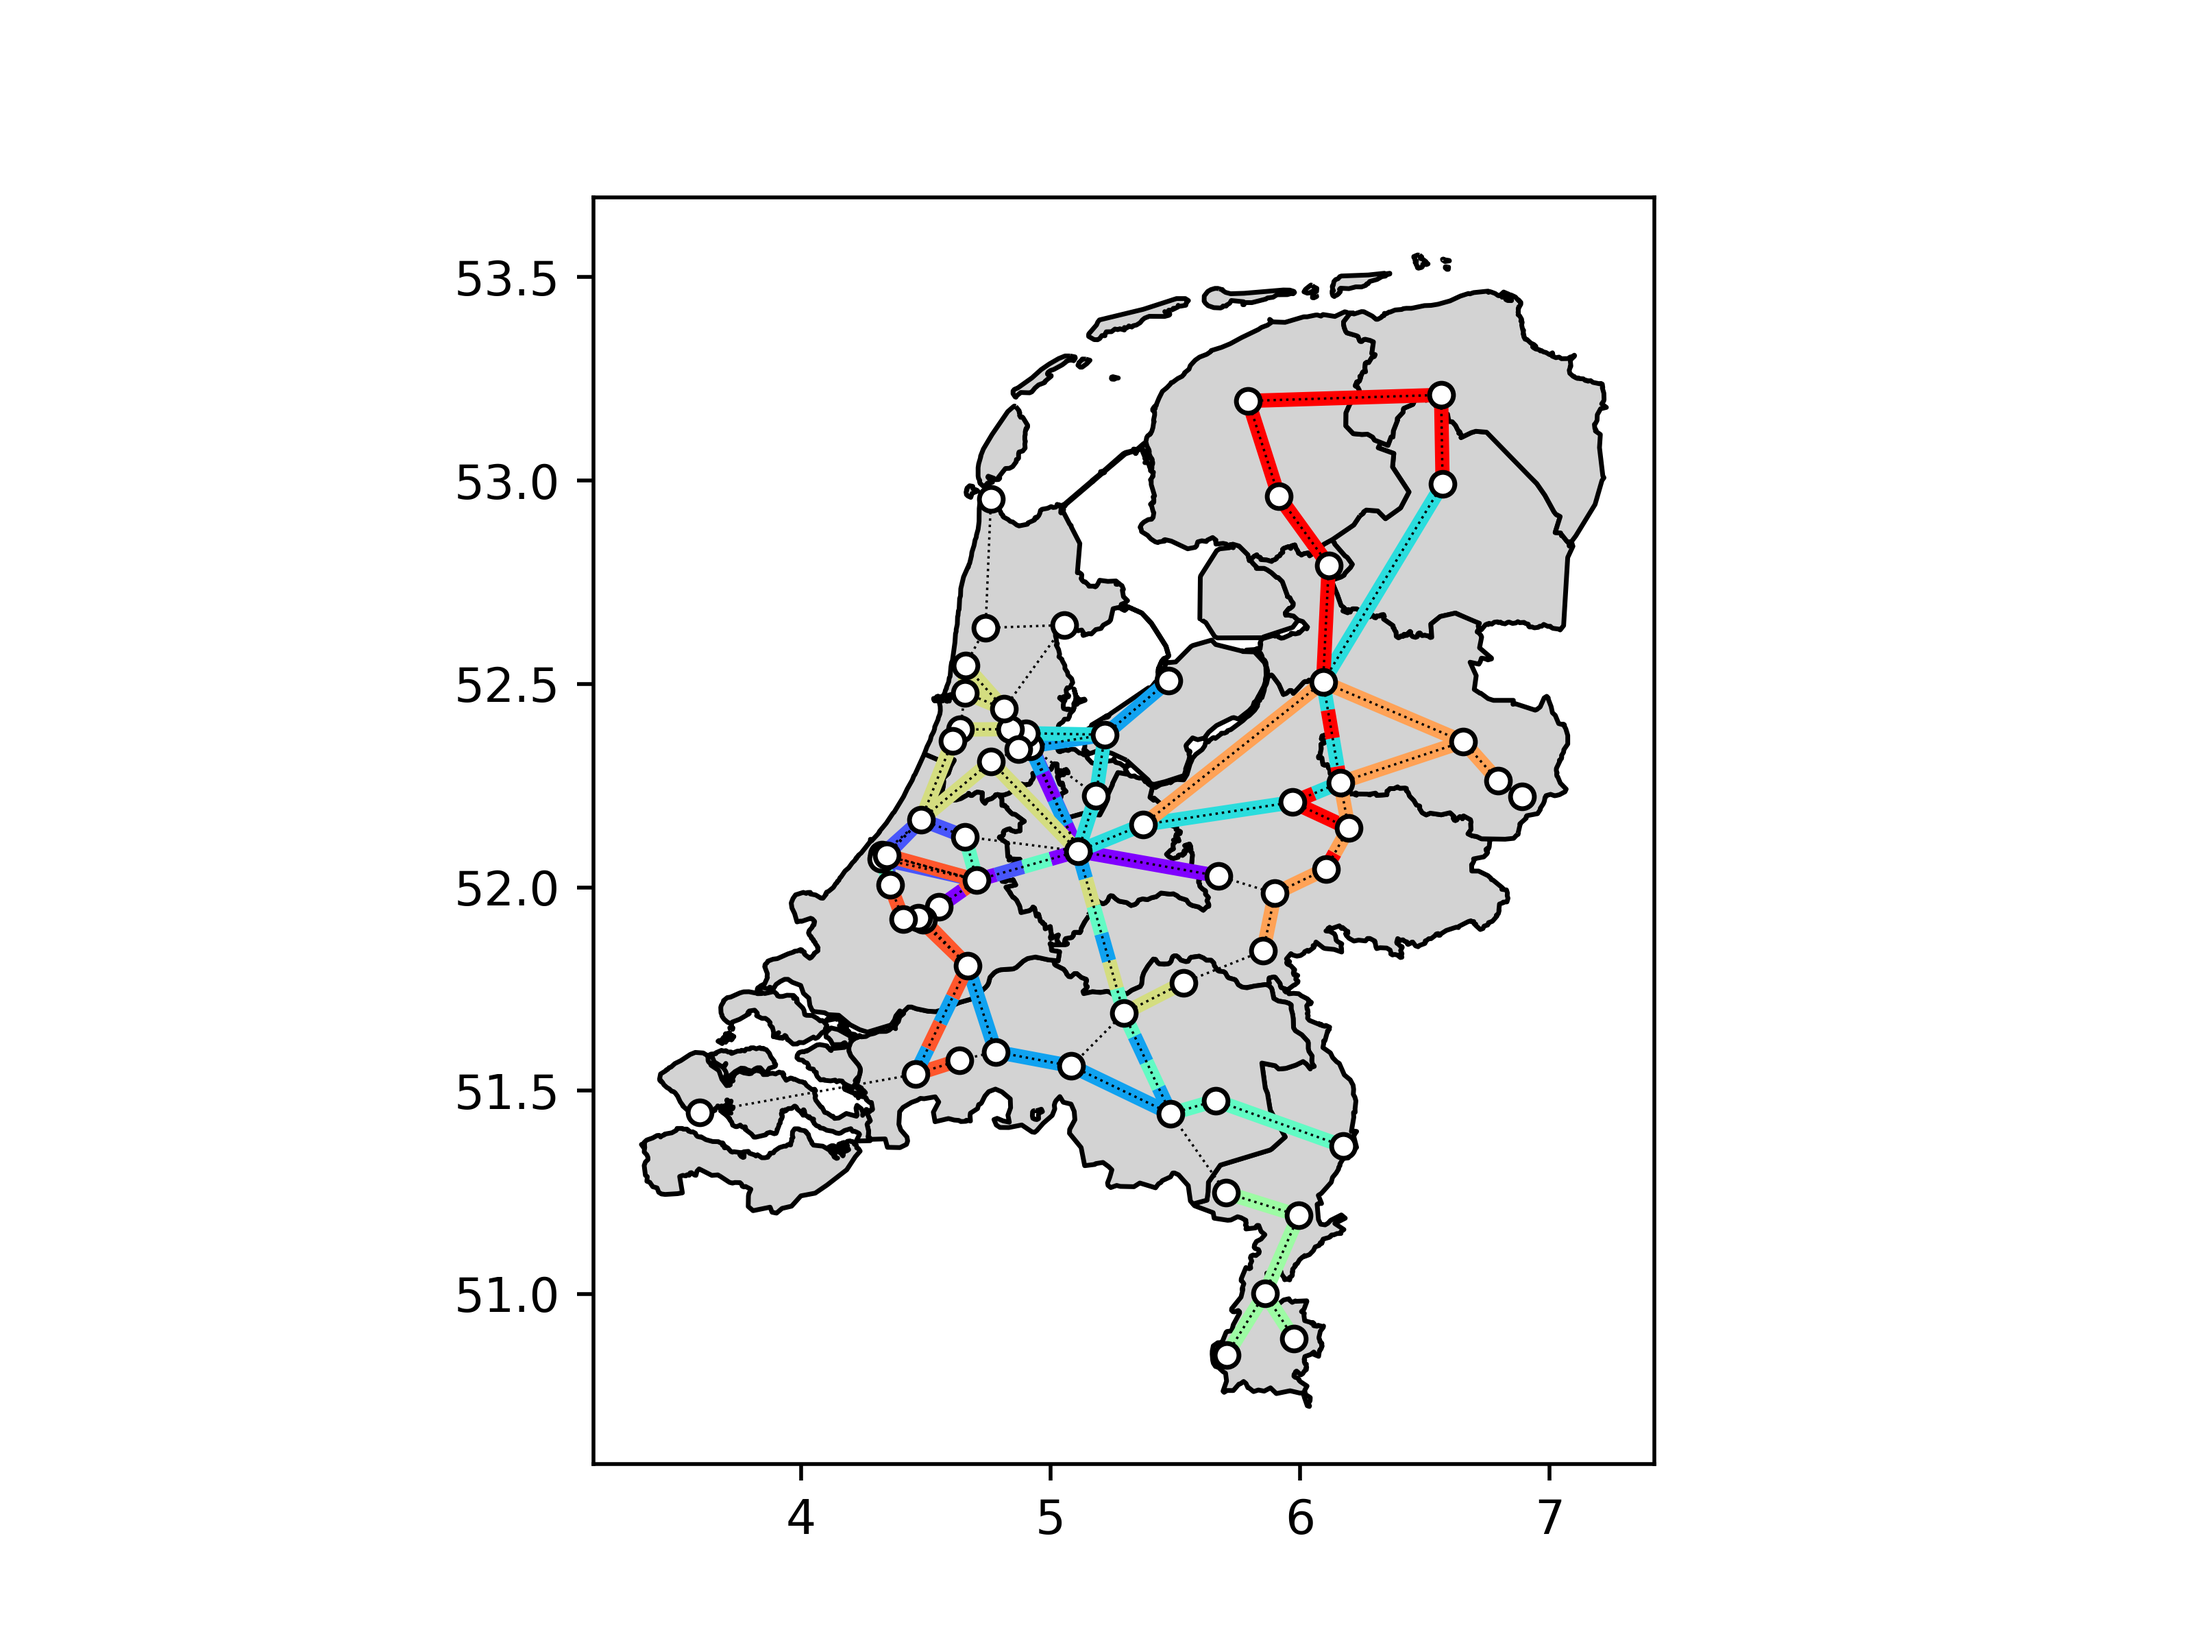
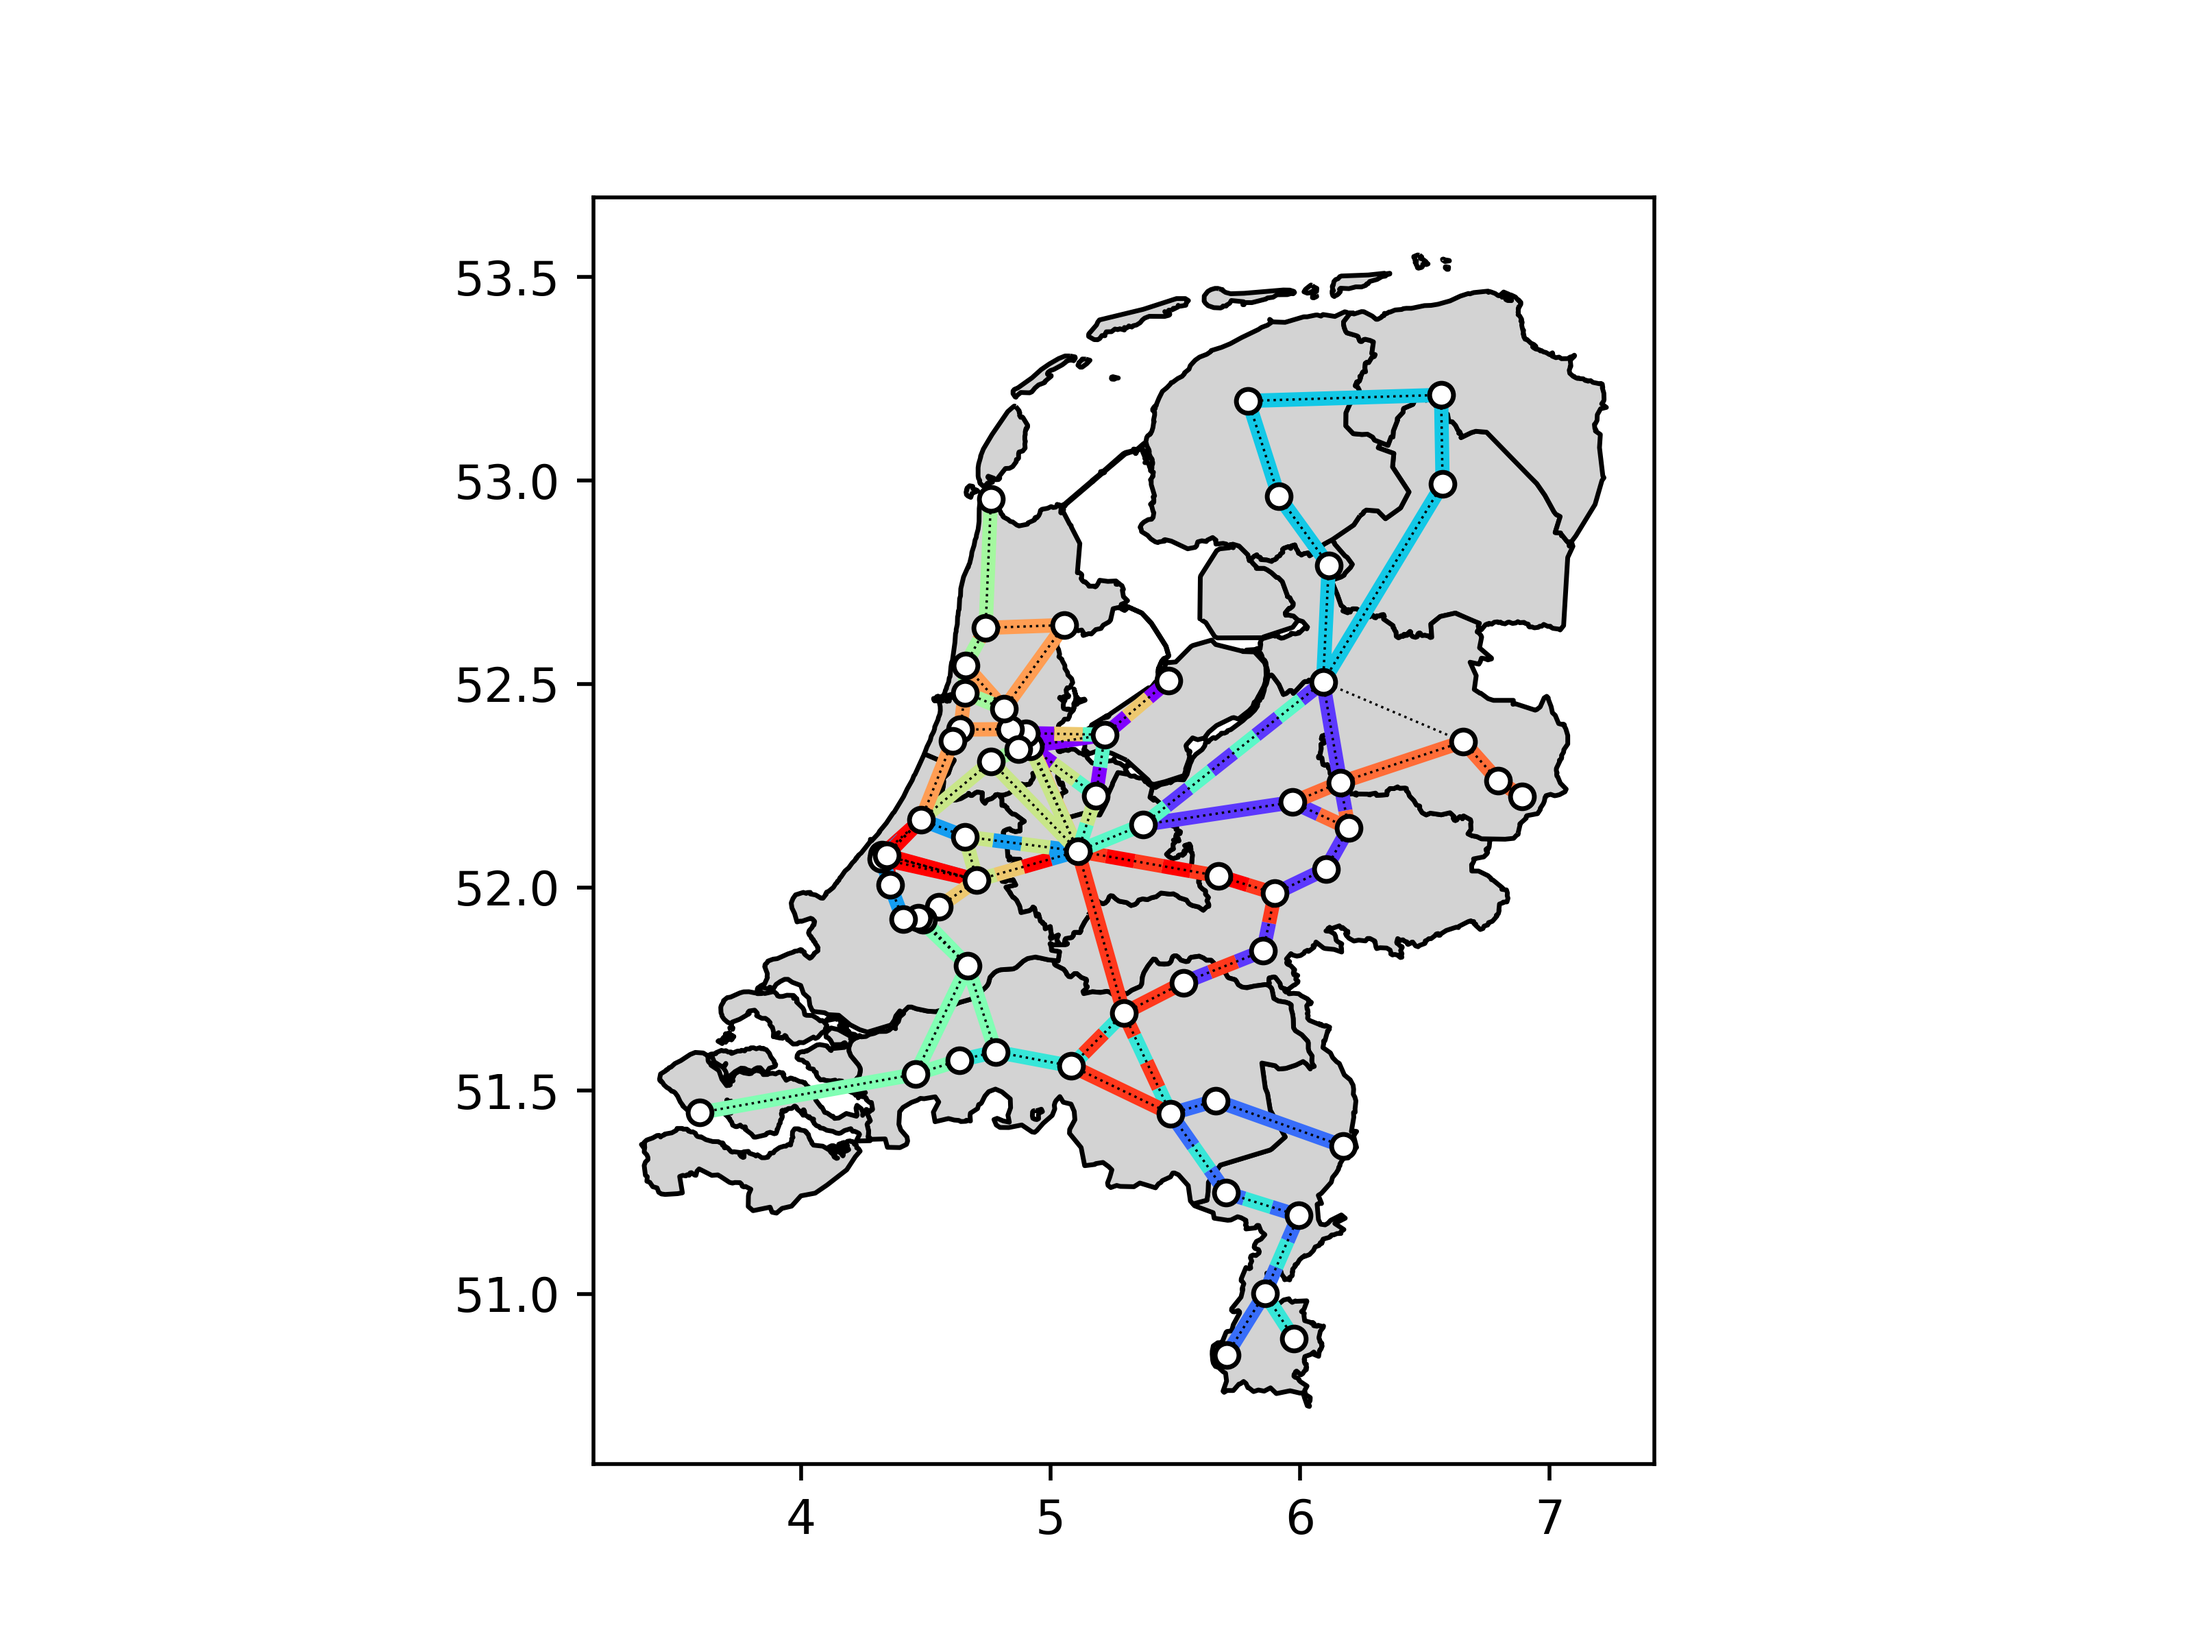
readme updated with usage and examples

diff --git a/main.py b/main.py
@@ -66,8 +66,8 @@ if __name__ == "__main__":
     parser.add_argument("-o", "--output", nargs='?', default = 'output.csv', type=str , help = "output file (csv). default = %(default)s")
     parser.add_argument("-vo", "--visualize_output", nargs='?',default = 'visualize.png', type=str,  help = "filename for the visualization of the network. default = %(default)s")
     parser.add_argument("-a", "--area",  nargs='?', default = 'nederland', type=str,  help="area to make network in (holland or nederland). default = %(default)s")
-    parser.add_argument("-sn", "--start_network", nargs='?', default = 'greedy', type=str, help="algorithm to use for start network (random, greedy or hillclimber). default = %(default)s")
-    parser.add_argument("-algo", "--algorithm", nargs='?', default = 'greedy',  type = str, help = "algorithm to use for optimization (hillclimber, greedy or evolution). default = %(default)s")
+    parser.add_argument("-sn", "--start_network", nargs='?', default = 'random', type=str, help="algorithm to use for start network (random, greedy or hillclimber). default = %(default)s")
+    parser.add_argument("-algo", "--algorithm", nargs='?', default = 'hillclimber',  type = str, help = "algorithm to use for optimization (hillclimber, greedy or evolution). default = %(default)s")
     # Read arguments from command line
     args = parser.parse_args()
 

diff --git a/README.md b/README.md
@@ -93,7 +93,7 @@ Specifications of certain algorithms;
 
 #### Requirements
 This project is written using Python 3.9;
-In requirements.txt are all required packages to run this code succesfully. 
+requirements.txt contains all required packages to run this code succesfully. 
 These can be installed using pip:
 ```
 pip install -r requirements.txt
@@ -105,7 +105,31 @@ conda install --file requirements.txt
 ```
 
 ### Usage and examples
+The code can be run by entering:
 
+```
+python main.py
+```
+
+To run the code, 5 input arguments are required:
+- output: filepath for the output generated by a network
+- visualize_output: filepath for the output of the visualization of the network
+- area: specifies area network is created in (either holland or nederland)
+- start_network: specifies which algorithm is used to create initial network (either greedy, hillclimber or random). 
+- algorithm: specifies which algorithms is used for optimization of network (either hillclimber or evolution). 
+
+All arguments are set to default setting. Manual changes can be made, for example by entering:
+
+```
+python main.py -sn random -algo hillclimber
+```
+
+All default settings and options per argument can be accessed by entering:
+
+```
+python main.py -h
+```
+NOTE: If hillclimber is chosen, an initial question is asked in the terminal. Enter either of the two presented options and the program will run.
 
 
 ### Authors:
